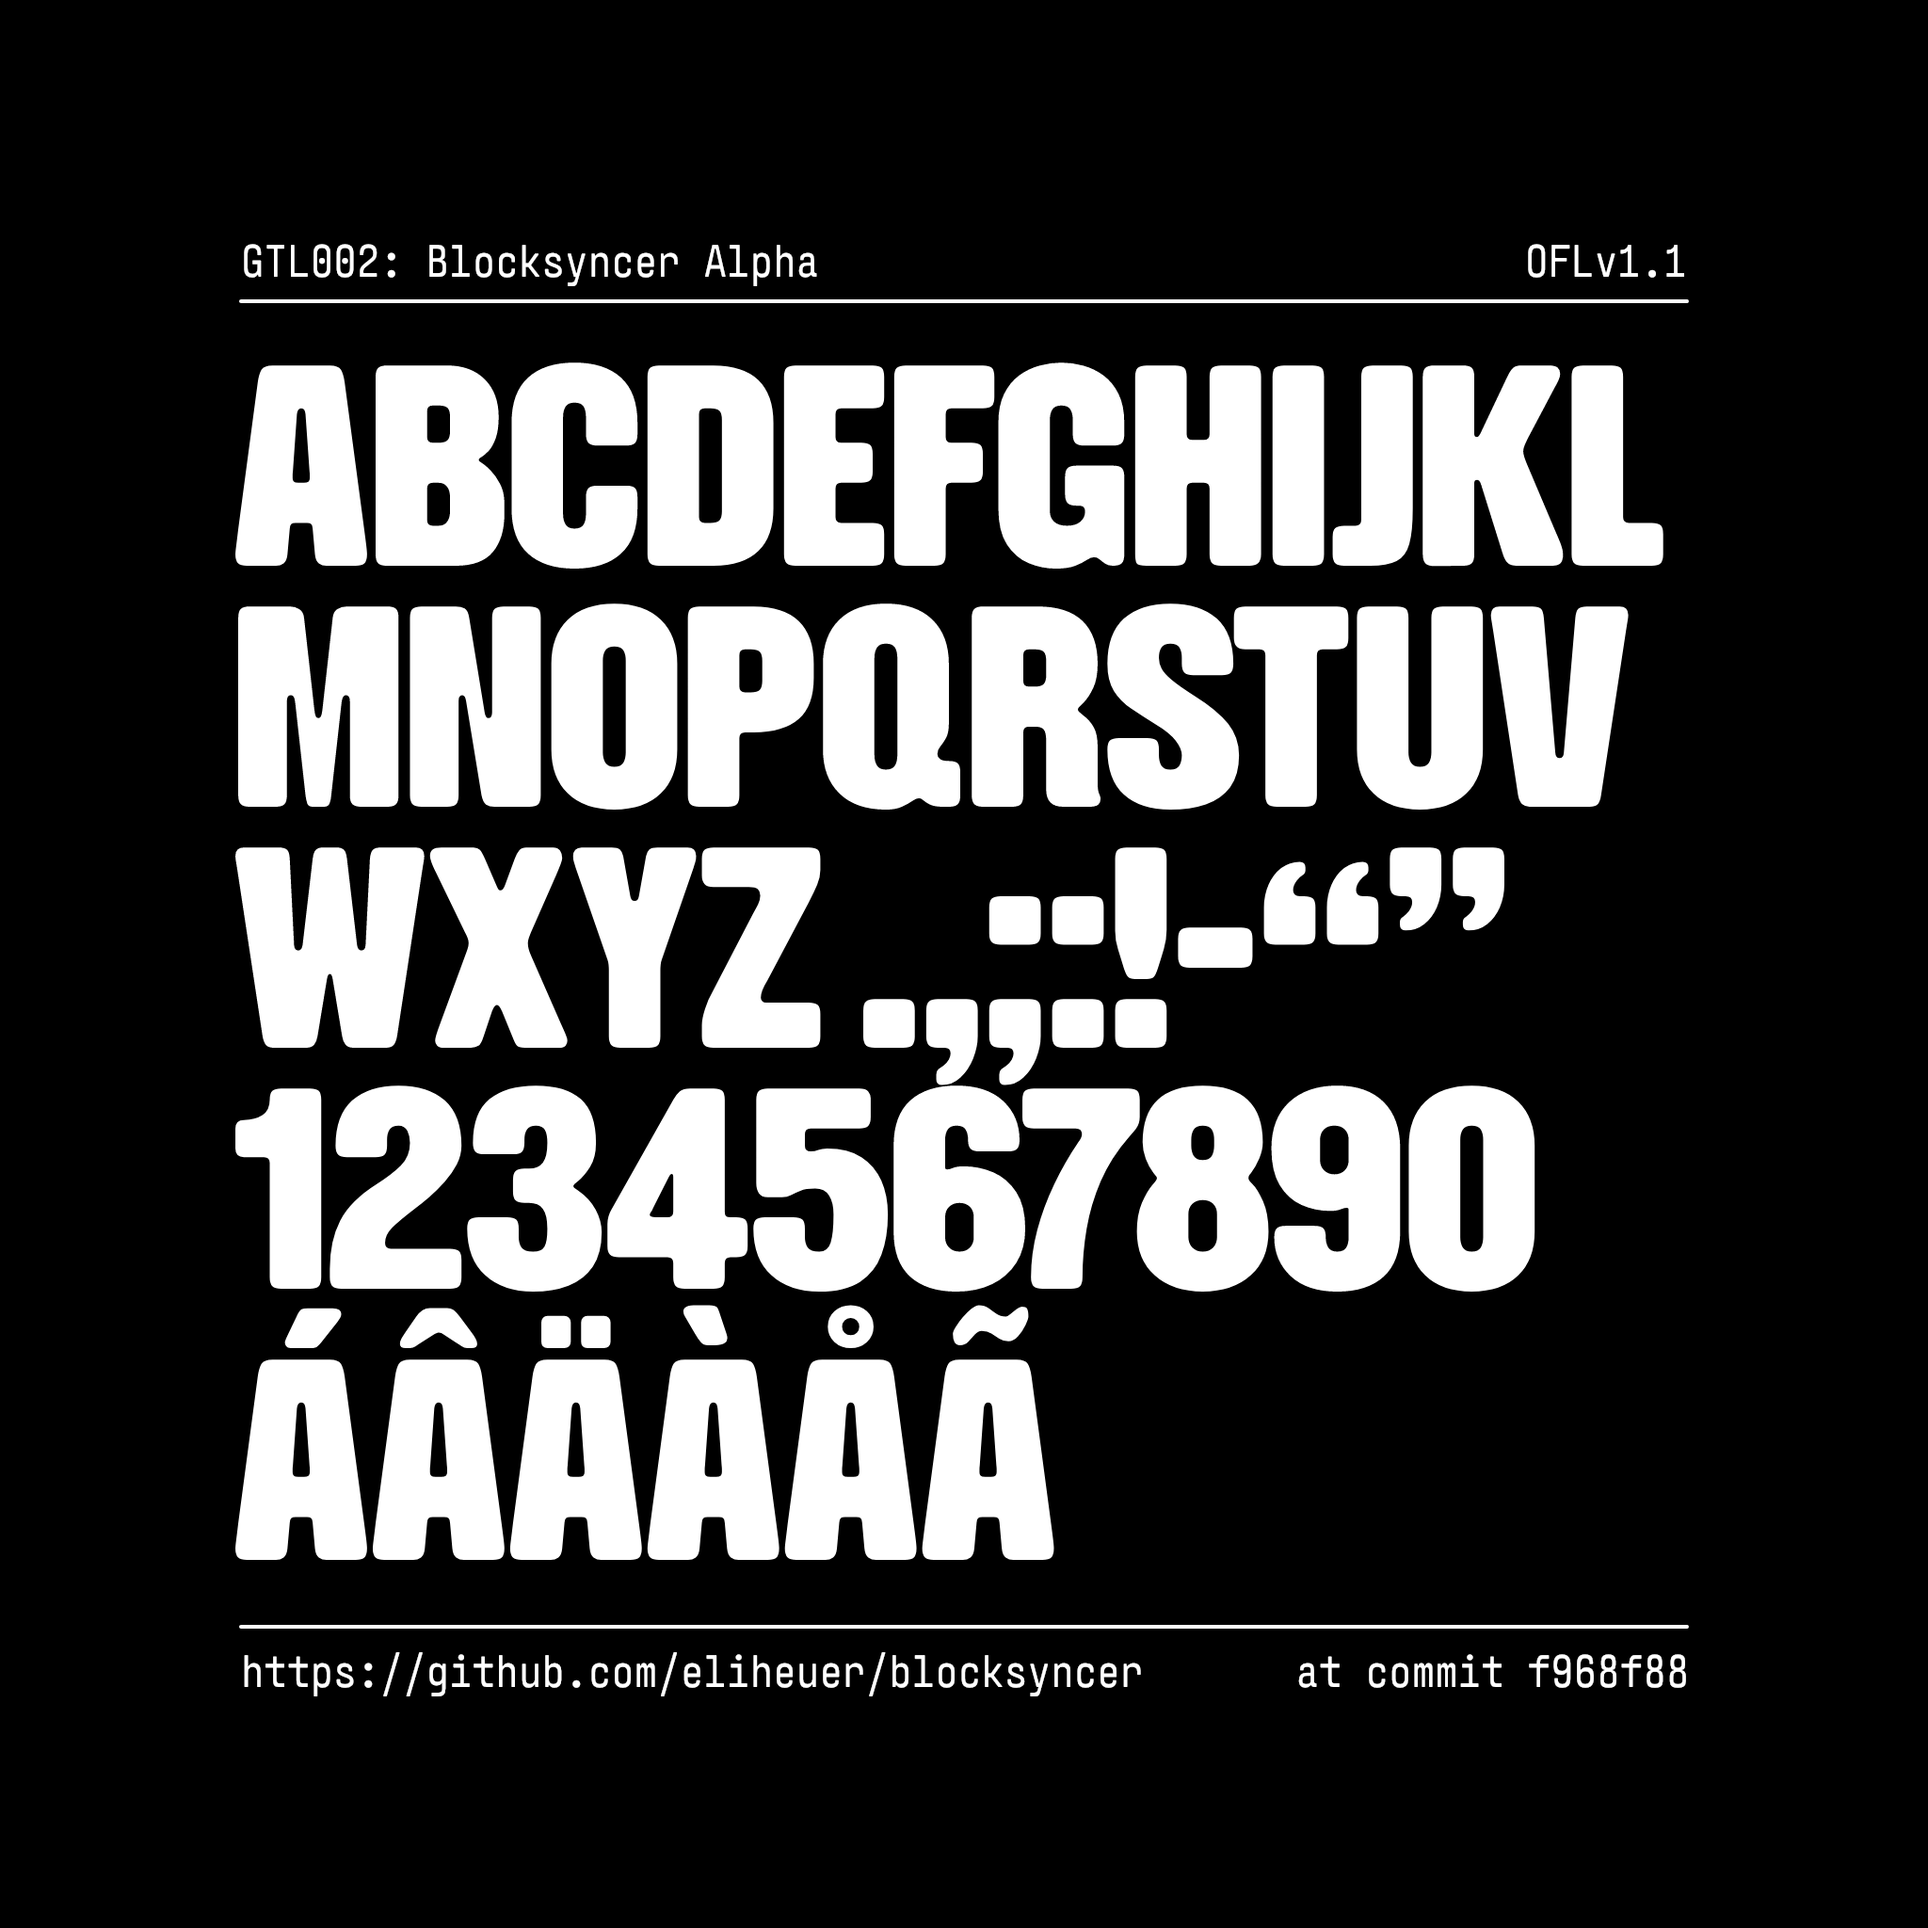
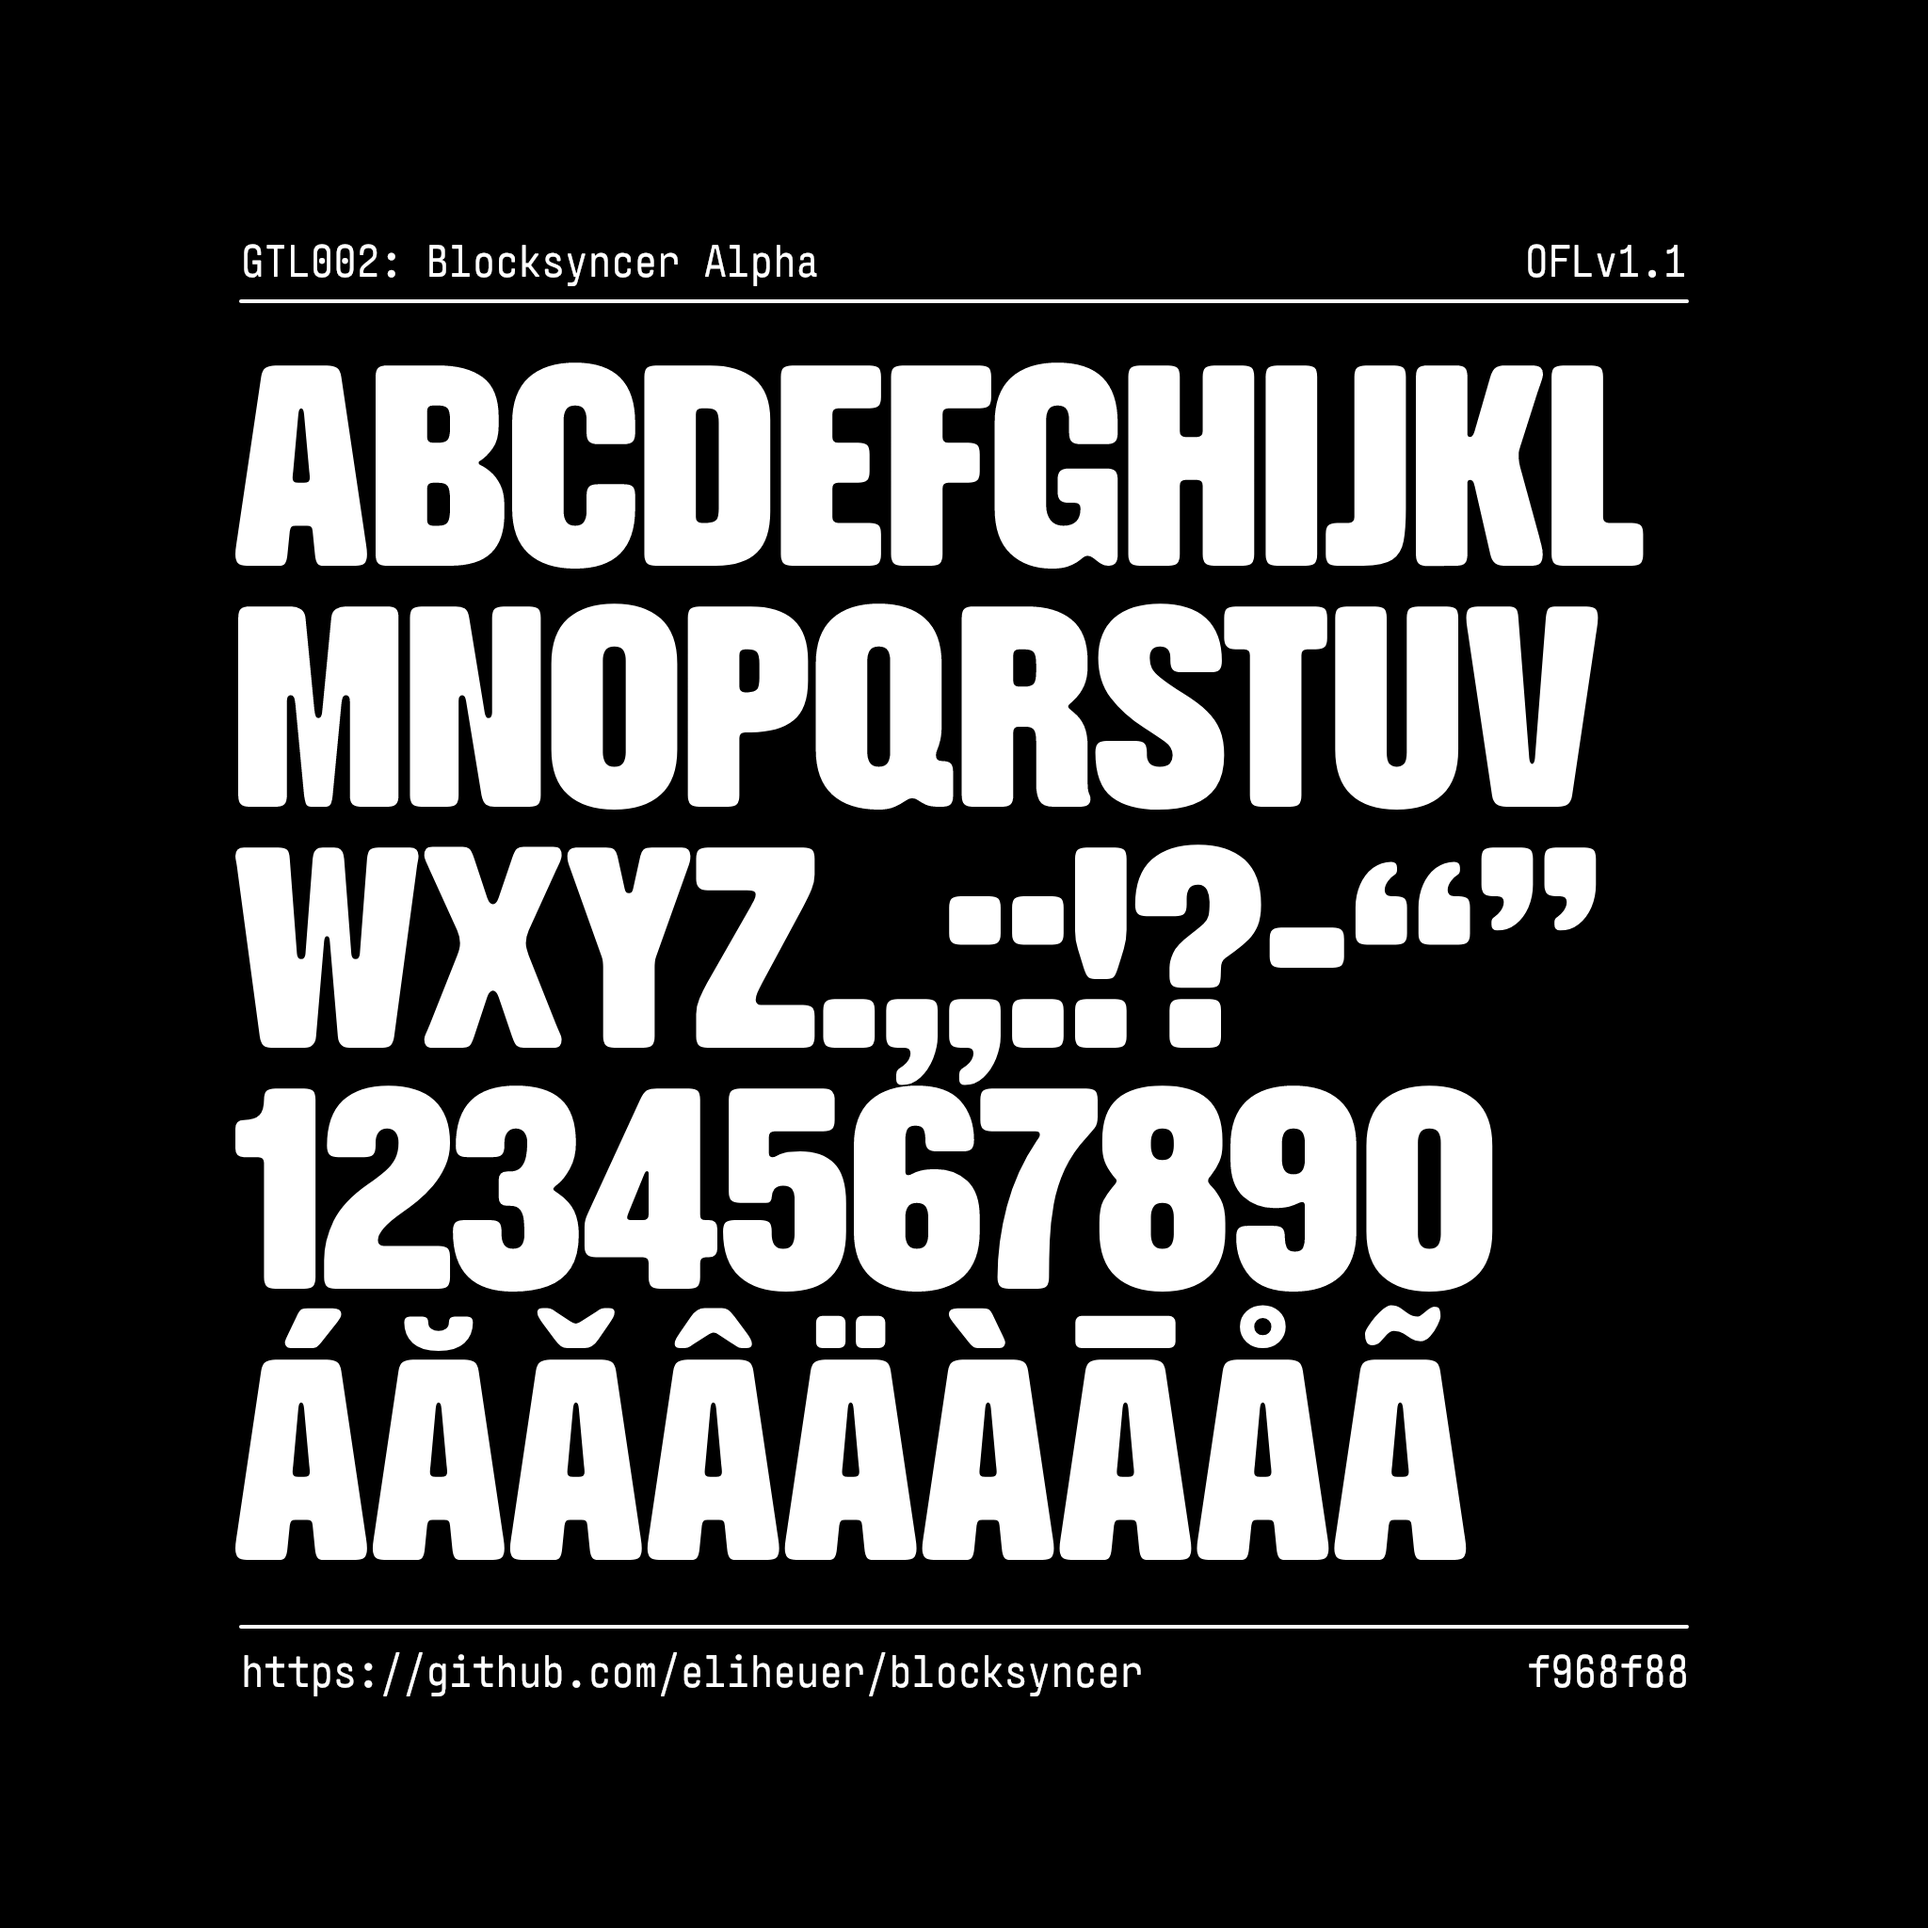
Update main README image

diff --git a/documentation/Blocksyncer-Alpha-NFT.py b/documentation/Blocksyncer-Alpha-NFT.py
@@ -33,13 +33,13 @@ AUXILIARY_FONT = "documentation/specimen_fonts/Hasubi-Mono[wght].ttf"
 AUXILIARY_FONT_SIZE = 48
 BIG_TEXT_A = "ABCDEFGHIJKL"
 BIG_TEXT_B = "MNOPQRSTUV"
-BIG_TEXT_C = "WXYZ.,;:!-“”"
+BIG_TEXT_C = "WXYZ.,;:!?-“”"
 BIG_TEXT_D = "1234567890"
 BIG_TEXT_E = "ÁĂǍÂÄÀĀÅÃ"
 BIG_TEXT_FONT_SIZE = 304
 BIG_TEXT_SIDE_MARGIN = MARGIN * 1
 BIG_TEXT_BOTTOM_MARGIN = MARGIN * 5.9
-GRID_VIEW = True # Change this to "True" for a grid overlay
+GRID_VIEW = False # Change this to "True" for a grid overlay
 
 # Handel the "--output" flag
 # For example: $ python3 documentation/image1.py --output documentation/image1.png
@@ -147,7 +147,7 @@ def draw_auxiliary_text():
     # Draw Text
     text(FONT_NAME, POS_TOP_LEFT, align="left")
     text(FONT_LICENSE, POS_TOP_RIGHT, align="right")
-    text("at commit f968f88", POS_BOTTOM_RIGHT, align="right")
+    text("f968f88", POS_BOTTOM_RIGHT, align="right")
     text(MY_URL, POS_BOTTOM_LEFT, align="left")
 
 
